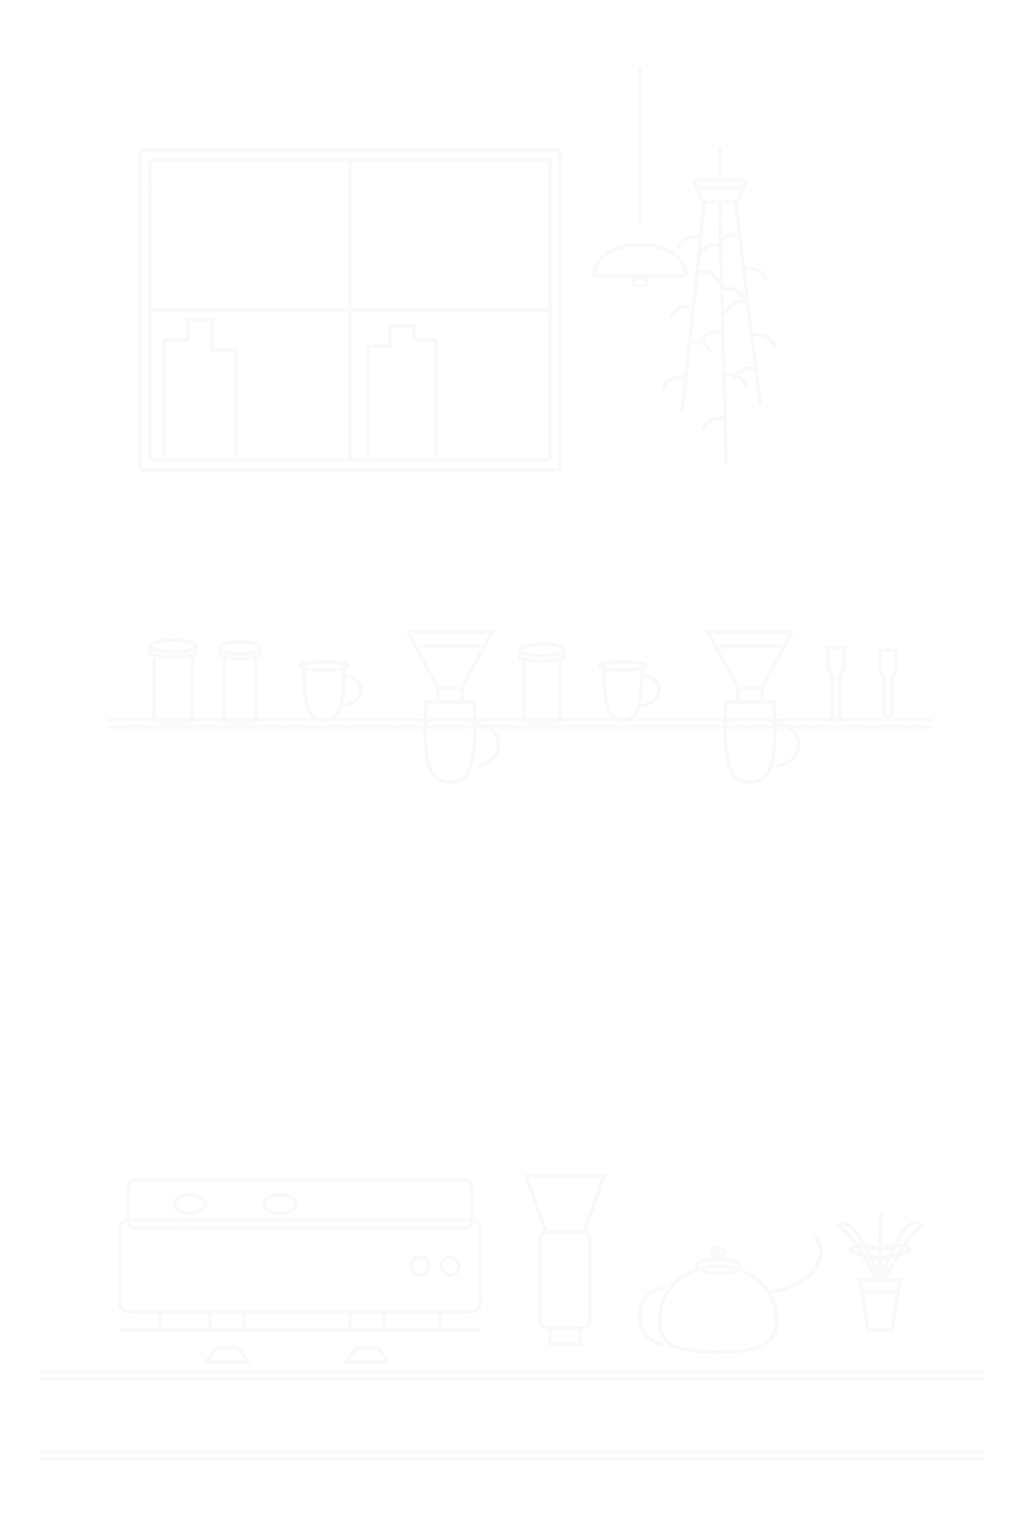
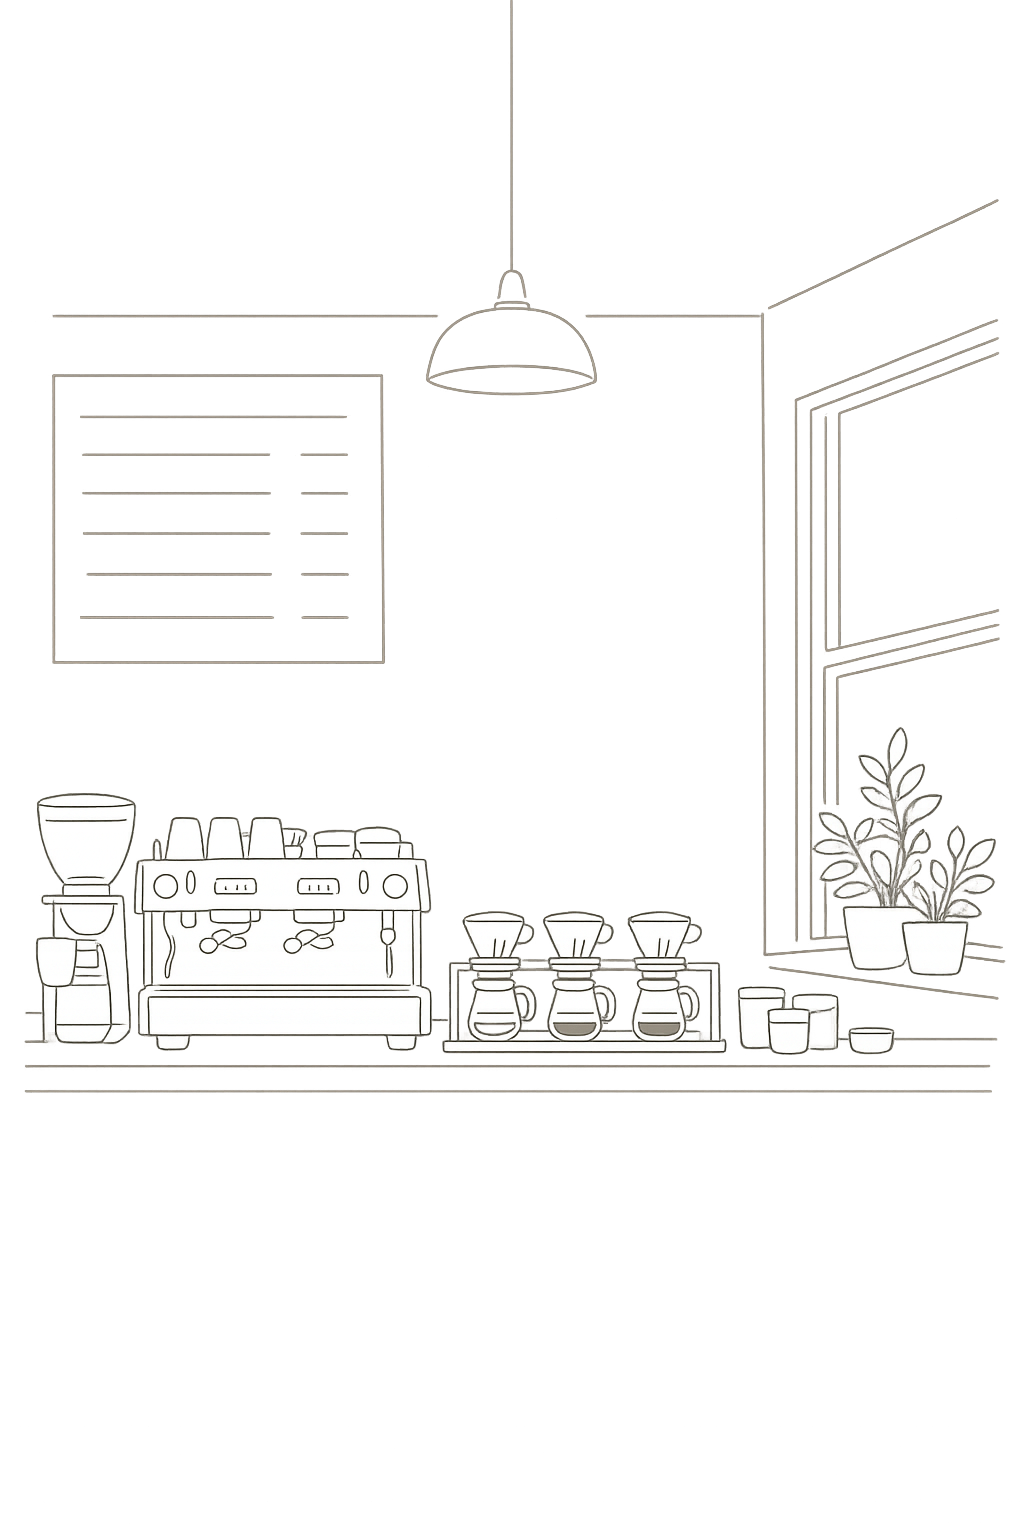
feat(TIM-1866): genuine gpt-image-1.5 portrait hero (Candidate D)
Deploy the CEO-confirmed portrait hero — a genuine OpenAI gpt-image-1.5
render (1024x1536, transparent alpha), NOT a vector fallback and not
hand-edited. Rendered through OpenAI with the exact canonical TIM-1579
recipe that produced the board-loved landscape (subject hero-interior,
uniform 1.5px off-white stroke, outline-only), recomposed vertical.

- Asset: hero-your-coffee-shop-tall.webp swapped from the rejected vector
  Candidate A (TIM-1858) to gpt-image Candidate D. Style-verified: ~89%
  transparent, neutral off-white strokes, 0% gold/fill drift, no blur.
- HomepageHero: restore portrait wiring (1024x1536, max-w-[480px] mx-auto)
  — the TIM-1866 Step 0 landscape revert was an interim placeholder.
- scripts/render-hero-portrait-openai.mjs: reproducible generator. Reuses
  the canonical buildPrompt() with the landscape recipe params flipped to
  vertical + transparent; retries on transient OpenAI 500s. Cost ~$0.80.

diff --git a/src/app/_components/HomepageHero.tsx b/src/app/_components/HomepageHero.tsx
@@ -14,12 +14,13 @@ const EASE = [0.25, 0.46, 0.45, 0.94] as const;
    placed cleanly in the same right-column slot with the same entrance animation.
    Direct placement (matching prior main behavior) rather than the getAsset() manifest,
    which renders nothing until the recipe asset is registered.
-   TIM-1866: interim revert to the board-approved original LANDSCAPE asset
-   (hero-your-coffee-shop.webp, the genuine gpt-image-1.5 render the board loves)
-   while the OpenAI-generated VERTICAL hero is regenerated. The rejected vector
-   Candidate A (TIM-1858) is pulled off prod. This is a temporary placeholder;
-   the portrait OpenAI render swaps back in once a fresh key is wired (TIM-1866 Step 2). */
-const HERO_ILLUSTRATION = "/images/illustrations/hero/hero-your-coffee-shop.webp";
+   TIM-1866: GENUINE gpt-image-1.5 portrait hero (Candidate D), 1024×1536, transparent
+   alpha, rendered through OpenAI with the exact canonical recipe that produced the
+   board-loved landscape (subject hero-interior, uniform 1.5px off-white stroke,
+   outline-only) — just recomposed vertical. No vector fallback, no hand-editing.
+   CEO-confirmed pick. Replaces the interim landscape placeholder and the rejected
+   vector (TIM-1858). Rendered by scripts/render-hero-portrait-openai.mjs. */
+const HERO_ILLUSTRATION = "/images/illustrations/hero/hero-your-coffee-shop-tall.webp";
 
 export default function HomepageHero() {
   return (
@@ -155,11 +156,11 @@ export default function HomepageHero() {
         >
           <Image
             src={HERO_ILLUSTRATION}
-            alt="Continuous line illustration of a coffee shop interior with an espresso machine, pour-over station, plants, and a pendant lamp, drawn in off-white line art on Groundwork teal."
-            width={1536}
-            height={1024}
+            alt="Continuous line illustration of a coffee shop interior viewed across the counter, composed vertically from the counter up to hanging pendant lamps, with an espresso machine, pour-over station, window with a trailing plant, and a chalkboard menu, drawn in off-white line art that floats on the Groundwork teal gradient."
+            width={1024}
+            height={1536}
             priority
-            className="w-full h-auto"
+            className="w-full h-auto max-w-[480px] mx-auto"
             sizes="(min-width: 1024px) 50vw, 100vw"
           />
         </motion.div>